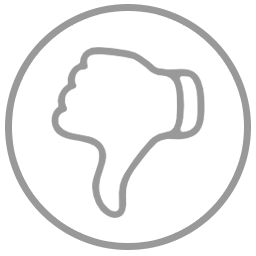
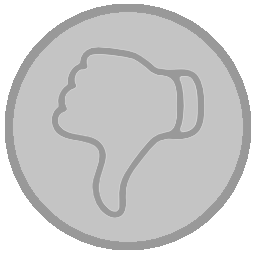
fixes

diff --git a/app/controllers/main.js b/app/controllers/main.js
@@ -299,7 +299,7 @@ function didClickOK(e) {
 		}, {
 			$set : _.omit(feedbackRecord, ["_id"])
 		});
-		$[feedbackRecord.card_id].children[3].children[0].image = "/images/" + (feedbackRecord.feedback == "0" ? "thumb_down" : "thumb_up") + ".png";
+		$[feedbackRecord.card_id].children[1].children[1].image = "/images/" + (feedbackRecord.feedback == "0" ? "sad_white" : "smile_white") + ".png";
 	} else {
 		feedbackColl.save(feedbackRecord);
 		updateFilledTiles($.modalView.card_id);
@@ -319,30 +319,23 @@ function updateFilledTiles(cardId) {
 		if (selectedCard && selectedCard.children.length == 2) {
 			var closeView = $.UI.create("View", {
 				apiName : "View",
-				classes : ["bg-red", "close-view"]
+				classes : ["close-view"]
 			}),
 			    closeIcon = Ti.UI.createImageView({
-				width : 20,
-				height : 20,
-				image : "/images/close.png",
+				image : "/images/wrong_enabled.png",
 				touchEnabled : false
 			}),
-			    thumbView = $.UI.create("View", {
-				apiName : "View",
-				classes : ["bg-red", "touch-disabled", "thumb-view"]
-			}),
-			    thumbIcon = Ti.UI.createImageView({
-				width : 35,
-				image : "/images/" + (cards[i].feedback == "0" ? "thumb_down" : "thumb_up") + ".png",
-				touchEnabled : false
+			    faceImg = Ti.UI.createImageView({
+				top : 10,
+				width : 30,
+				image : "/images/" + (cards[i].feedback == "0" ? "sad_white" : "smile_white") + ".png"
 			});
 			closeView.addEventListener("click", didRemoveFeedback);
 			closeView.add(closeIcon);
-			thumbView.add(thumbIcon);
-			selectedCard.children[0].image = selectedCard.selectedImagePath;
+			selectedCard.children[1].add(faceImg);
 			selectedCard.children[1].children[0].color = "#D66360";
+			selectedCard.children[0].image = selectedCard.selectedImagePath;
 			selectedCard.add(closeView);
-			selectedCard.add(thumbView);
 		}
 	}
 }
@@ -371,10 +364,10 @@ function updateCardWithNoFeedback(cardId, doUpdateFlotingBar) {
 	db.commit(feedbackColl);
 	var selectedCard = $[cardId],
 	    children = selectedCard.children;
-	selectedCard.children[0].image = selectedCard.imagePath;
 	selectedCard.children[1].children[0].color = "#160C4C";
+	selectedCard.children[1].remove(selectedCard.children[1].children[1]);
+	selectedCard.children[0].image = selectedCard.imagePath;
 	selectedCard.remove(children[2]);
-	selectedCard.remove(children[3]);
 	if (doUpdateFlotingBar !== false) {
 		updateFlotingBar();
 	}
@@ -405,18 +398,23 @@ function clearSurvey() {
 }
 
 function updateFlotingBar() {
-	var cards = feedbackColl.findAll();
-	for (var i = 0; i < 4; i++) {
-		var card = cards[i] || {},
-		    image = "/images/";
-		if (_.isEmpty(card)) {
-			image += (i < 2 ? "thumb_up" : "thumb_down") + "_grey.png";
-		} else {
-			image += (card.feedback == "0" ? "thumb_down" : "thumb_up") + "_red.png";
-		}
-		$["thumb".concat(i)].image = image;
+	var pCards = feedbackColl.find({
+		feedback : "1"
+	}),
+	    nCards = feedbackColl.find({
+		feedback : "0"
+	});
+	for (var i = 0; i < 2; i++) {
+		var card = pCards[i] || {},
+		    image = "/images/thumb_up_" + (_.isEmpty(card) ? "grey" : "red").concat(".png");
+		$["thumbPositive".concat(i)].image = image;
 	}
-	if (cards.length) {
+	for (var i = 0; i < 2; i++) {
+		var card = nCards[i] || {},
+		    image = "/images/thumb_down_" + (_.isEmpty(card) ? "grey" : "red").concat(".png");
+		$["thumbNegative".concat(i)].image = image;
+	}
+	if (pCards.length || nCards.length) {
 		$.submitIcon.image = "/images/right_enabled.png";
 	} else {
 		$.submitIcon.image = "/images/right_disabled.png";

diff --git a/app/controllers/submissionWin.js b/app/controllers/submissionWin.js
@@ -65,7 +65,11 @@ var args = arguments[0] || {},
 }];
 
 (function() {
-	var cards = feedbackColl.findAll(),
+	var cards = feedbackColl.find({}, {
+		$sort : {
+			feedback : -1
+		}
+	}),
 	    lastIndex = cards.length - 1;
 	for (var i in cards) {
 		var item = _.findWhere(items, {
